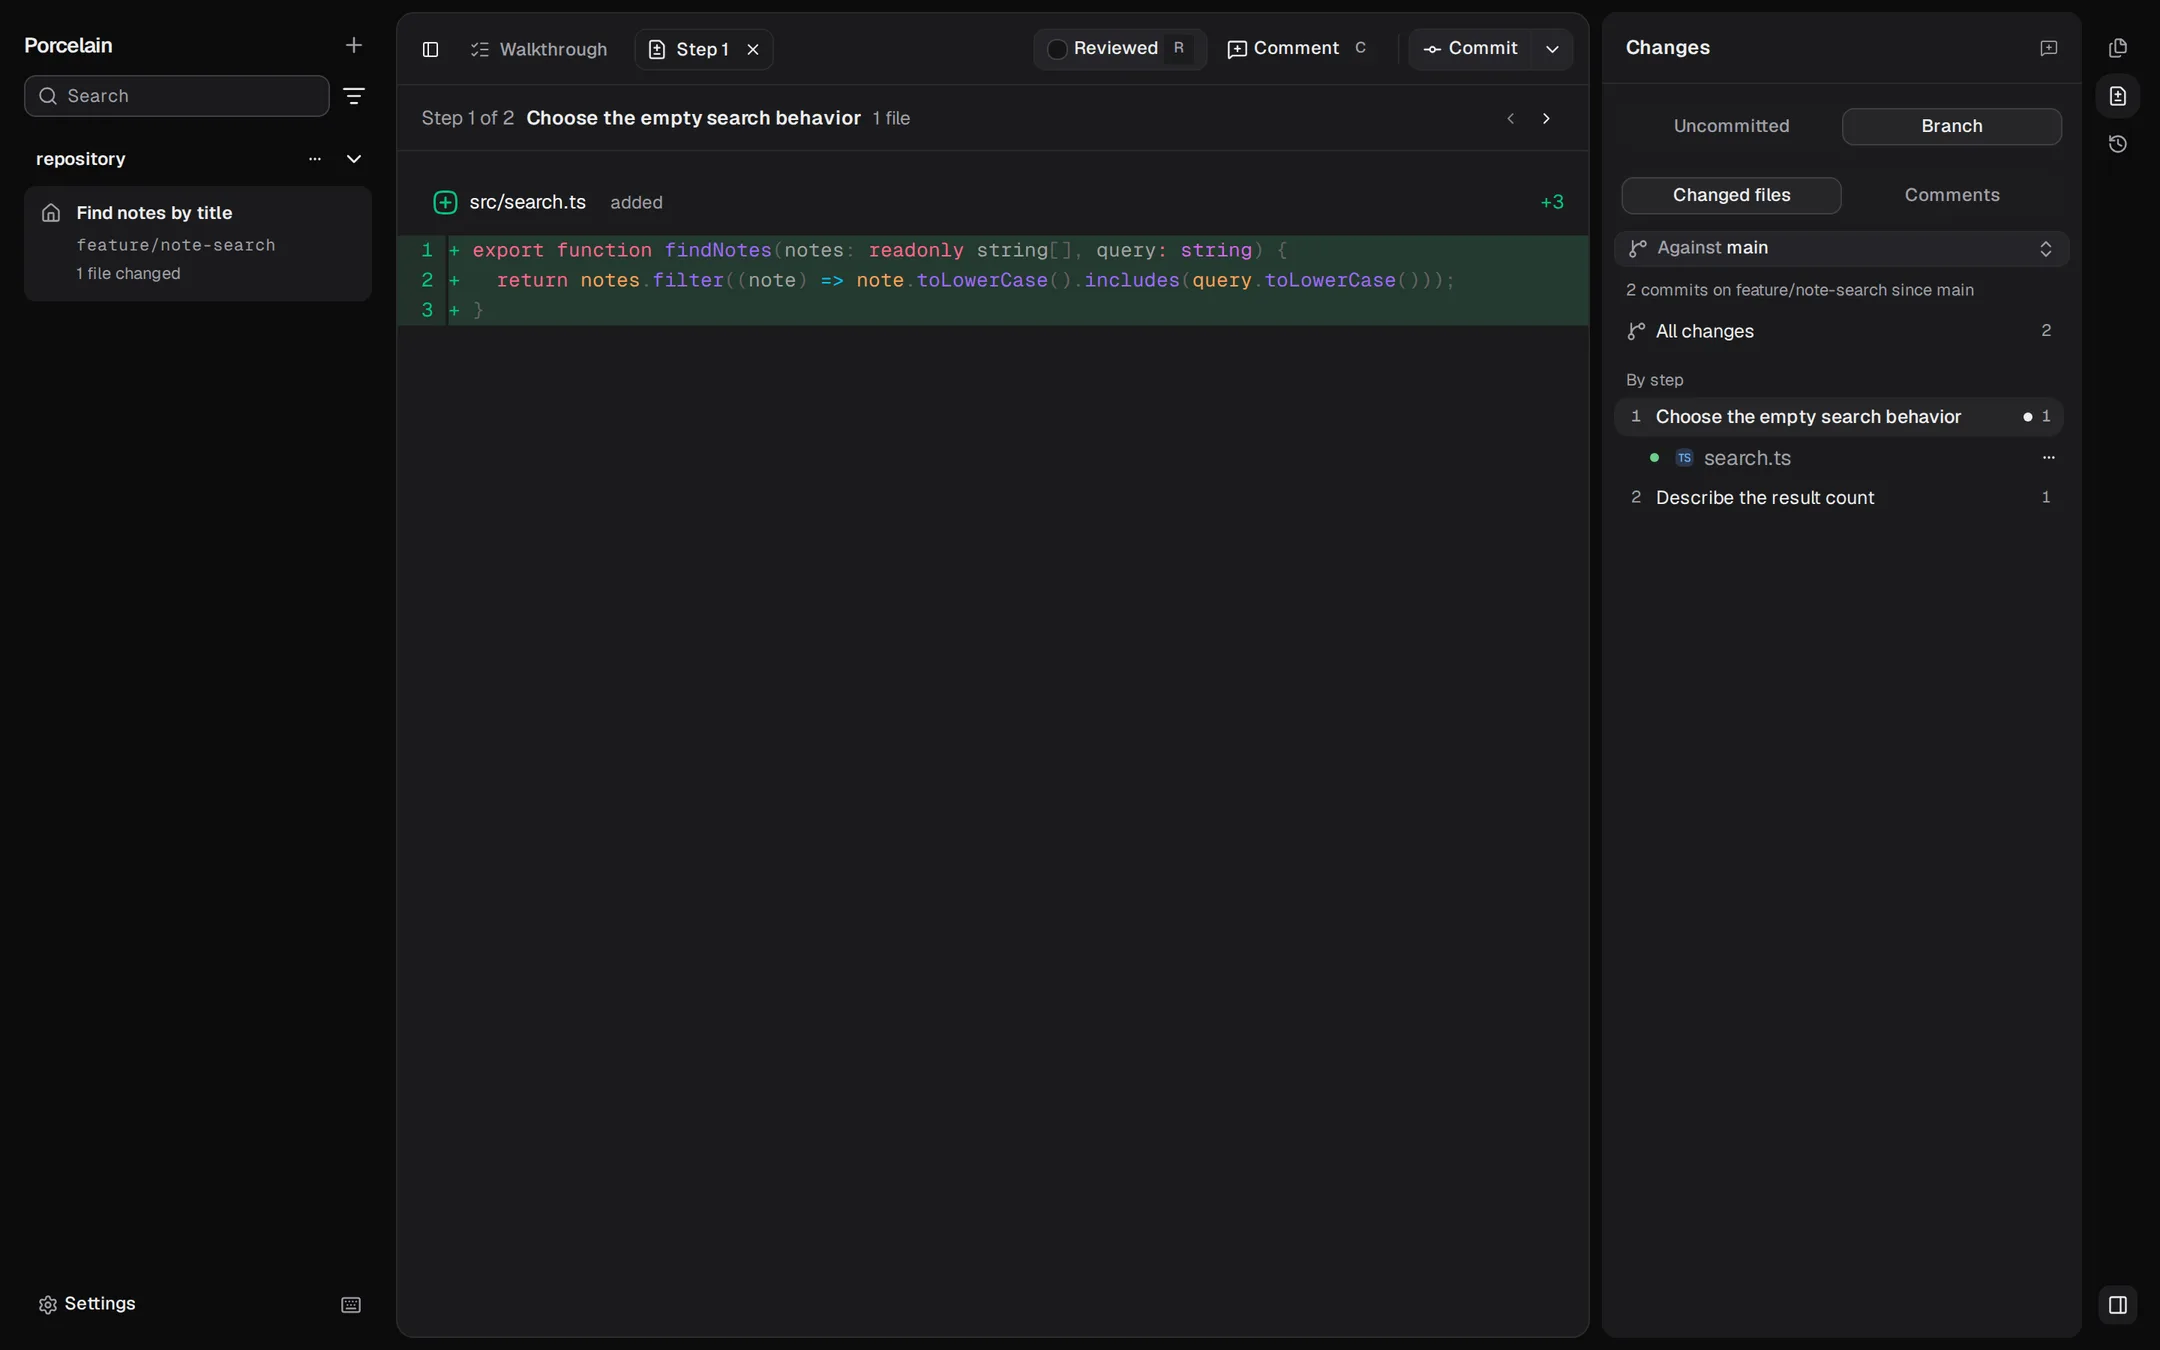
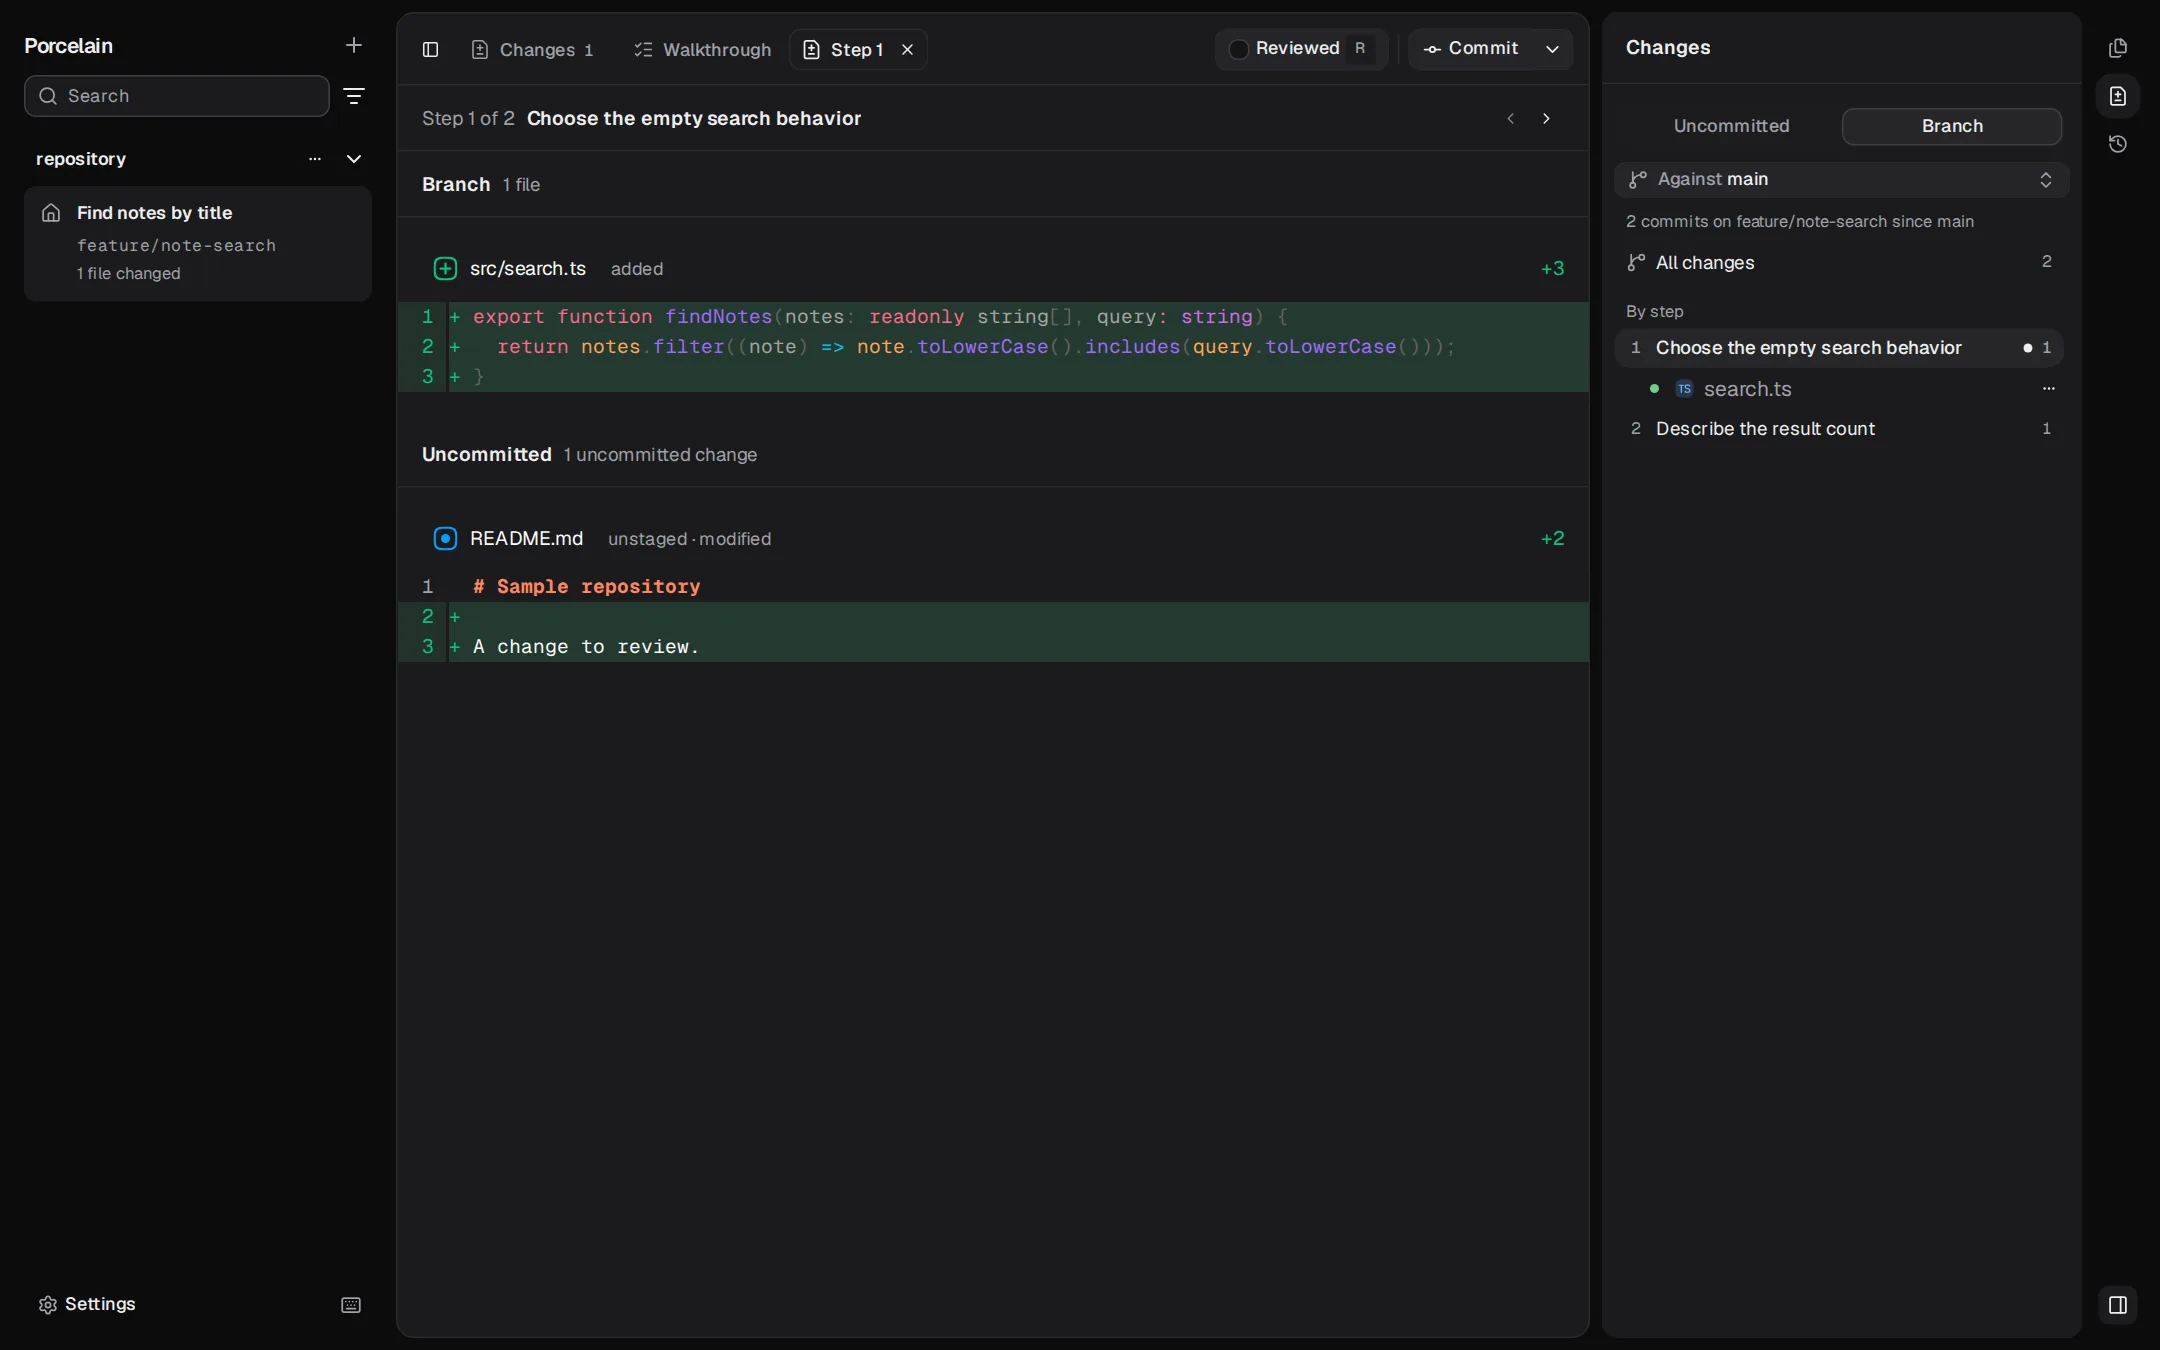
Retake the product screenshots after the old review was removed

diff --git a/README.md b/README.md
@@ -25,7 +25,7 @@ Porcelain does not run your coding agent. It sits beside the one you already use
 - **What the code doesn't say.** The agent reads the pull request, the diff and the repository first. Then it reads only your own messages to the builder, and writes down whatever only those explained.
 - **Proof where it belongs.** Screenshots from the pull request sit on the step they prove. The agent never edits code and never makes evidence up: no proof, nothing shown.
 - **Ask, then post.** Comment on a call or a step and the walkthrough agent answers. A requested change goes on the pull request in one click, alone or saved and posted together, or is copied as a brief when there is no pull request.
-- **Code by step.** The Changes panel groups the branch by step. Reviewed checkboxes stay on plain Changes.
+- **Code by step.** The Changes panel groups committed and uncommitted work by step. Reviewed checkboxes stay on plain Changes.
 - **Made for big repositories.** Pin the files you read, hide the ones you never open, and browse History as a commit graph with a timeline for each file, with commit, pull and push in the same place.
 - **Every machine, one place.** Run a server where each repository lives and reach all of them from one Porcelain, locally, over your network or remotely.
 
@@ -55,7 +55,7 @@ npx @fabiofiorita/porcelain@latest service install
 
 Porcelain writes walkthroughs through the Claude Code (`claude`) or Codex (`codex`) CLI on the machine that runs the server. Install one and sign in; there is no API key to set up. Choose the writer's model and effort under **Walkthroughs** in Settings. A project's **Walkthrough settings**, in its menu, can choose another writer for that project and turn on automatic walkthroughs.
 
-Choose **Write walkthrough** on a worktree with work to explain, or let the project write one when a pull request opens; automatic writing is off until you turn it on. New commits mark the page out of date and offer **Update**.
+Choose **Write walkthrough** on a worktree with work to explain, or let the project write one when a pull request opens; automatic writing is off until you turn it on. New commits or edits mark the page out of date and offer **Update**.
 
 The walkthrough agent runs read-only in the worktree: it reads and searches, and never edits. Your hooks and the MCP servers in your own agent configuration are switched off for it.
 
